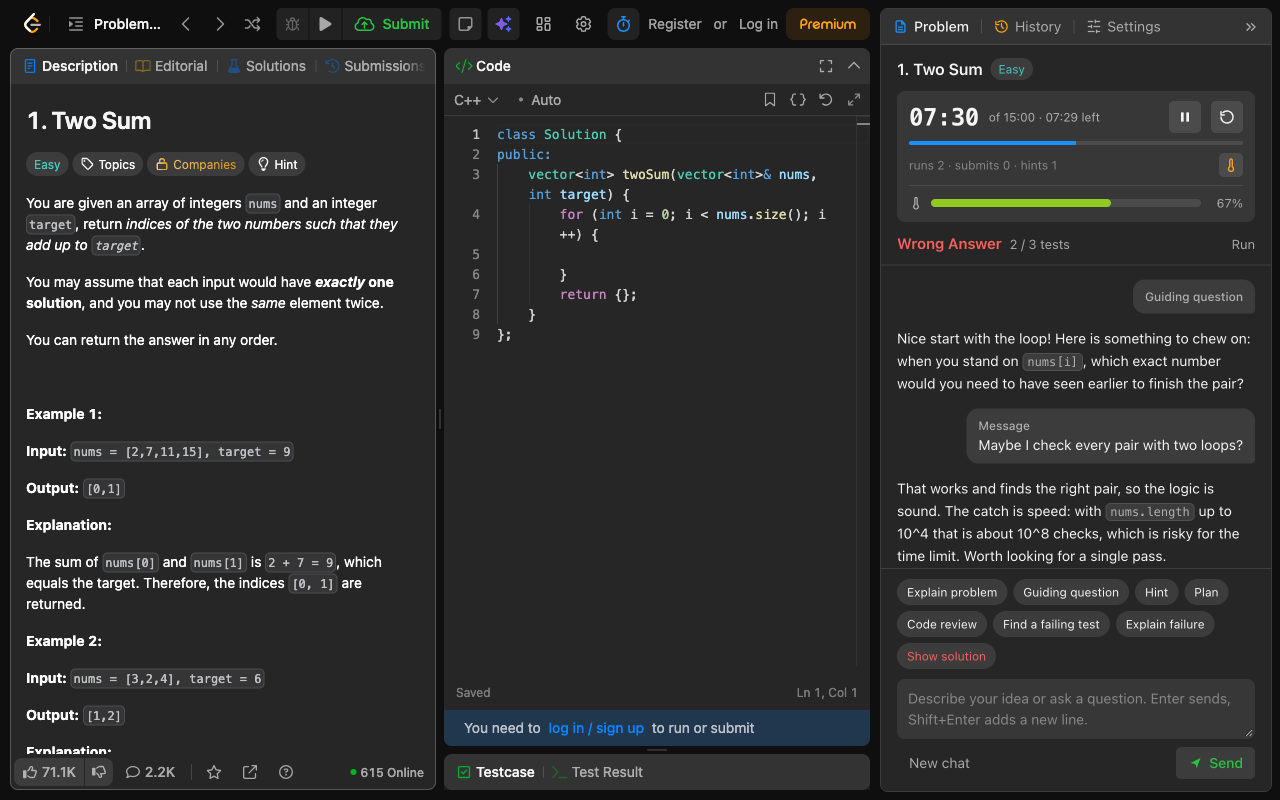
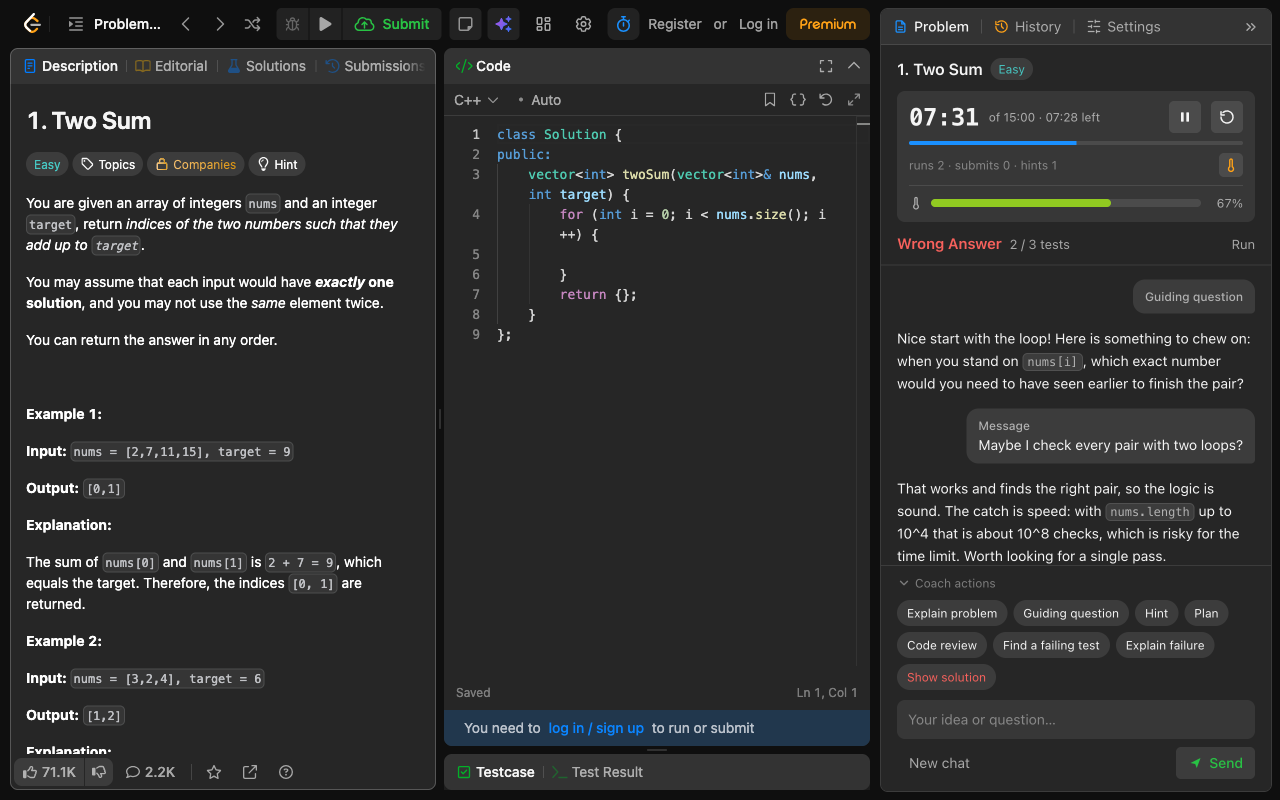
Refresh screenshots and mention folding the buttons
The screenshots show the one-line input and the Coach actions toggle,
and the README says how to make room for the chat on small screens.

diff --git a/README.md b/README.md
@@ -37,7 +37,7 @@ It runs on the AI model you choose: **Claude**, **OpenAI** or any model on **Ope
 | 🏁 | **Solution debrief** | Shows up after Accepted: complexity, whether it is optimal, edge cases, similar problems to practise. |
 | 🔓 | **Show solution** | The full solution with code. Needs a second click, so no accidental peeking. |
 
-Hover over any button to see what it does. Asking for a hint again gives the same idea from a new angle; it never skips a step of the ladder on its own.
+Hover over any button to see what it does. Asking for a hint again gives the same idea from a new angle; it never skips a step of the ladder on its own. On a small screen, fold the buttons away with **Coach actions** to give the chat more room; the panel also tightens its layout on short windows.
 
 ## 🌡 Hot-cold
 
